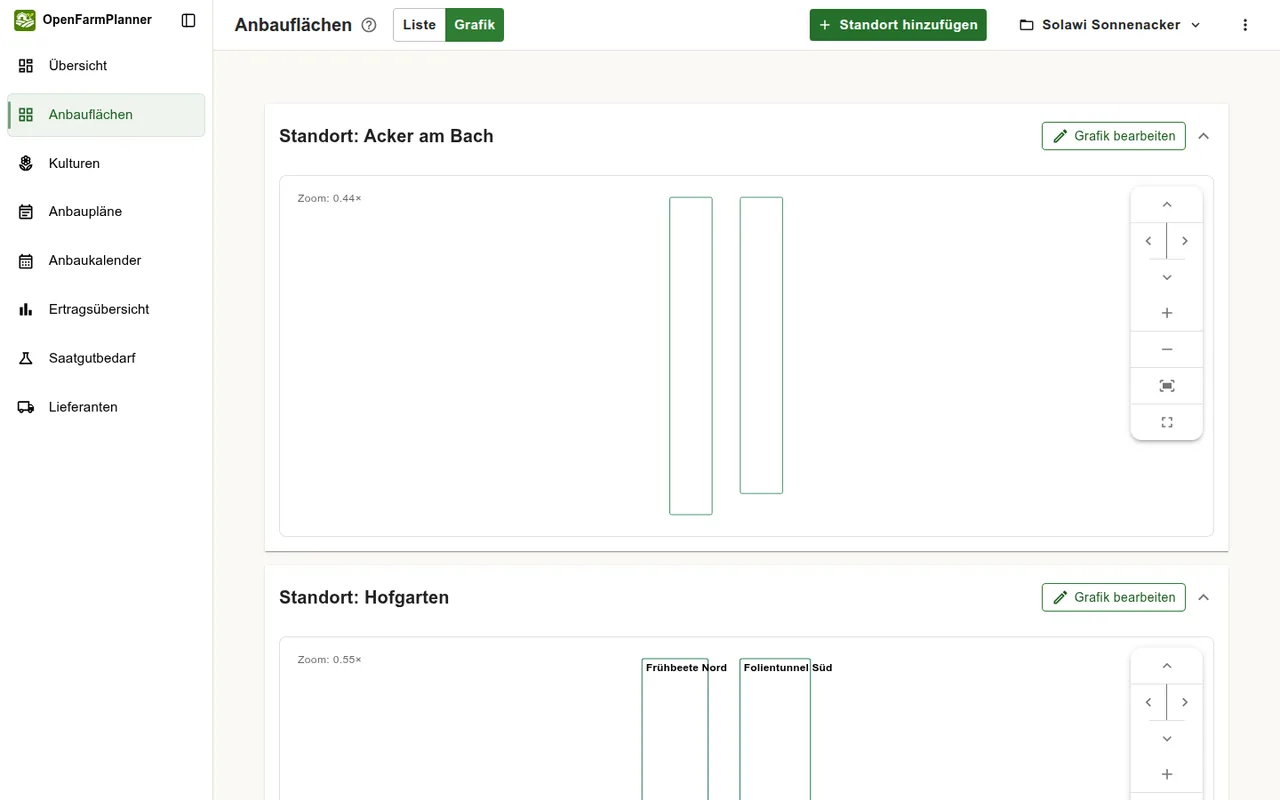
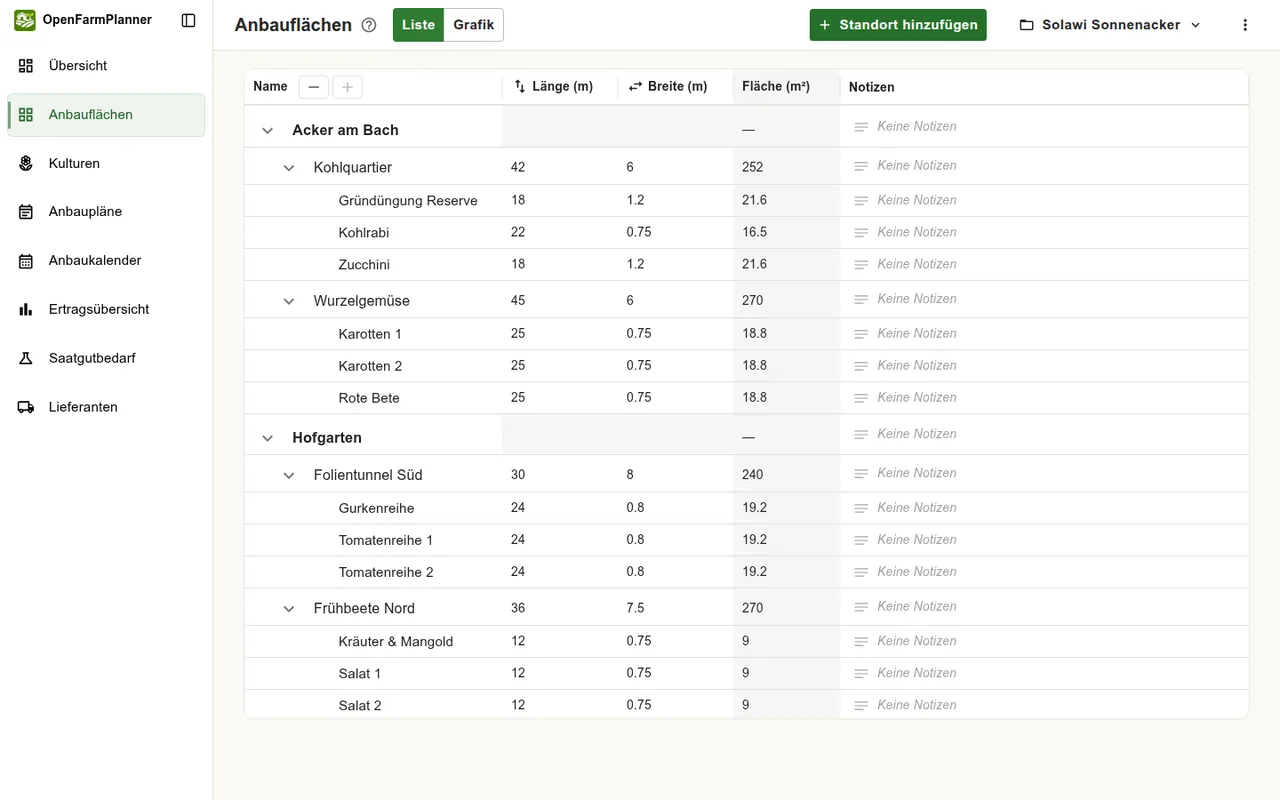
feat: fix button blur panel and highlight direct table editing in product tour
- Wrap the hero button pair in a plain (non-flex) Box for its blur panel
  instead of putting the panel directly on the flex Stack, working around
  a rendering gap where the backdrop-blur pseudo-element wasn't painting
  in some Chrome sessions.
- Rework the "Flächen" tour copy to foreground direct in-table editing
  instead of just describing the area hierarchy.
- Add a new "Anbaupläne" tour tab with its own demo screenshot (captured
  with a planting-date cell open in edit mode) and matching copy, so the
  landing page's core differentiator - editing straight in the table -
  is shown twice, not just described.
- Widen the product-tour container and trim the side-panel column so
  both screenshots render larger without hurting the responsive layout.

diff --git a/frontend/src/pages/public/HomePage.tsx b/frontend/src/pages/public/HomePage.tsx
@@ -21,6 +21,10 @@ const PRODUCT_TOUR_ITEMS = [
     image: '/landing/screenshots/demo-areas.webp',
   },
   {
+    key: 'plantingPlans',
+    image: '/landing/screenshots/demo-planting-plans.webp',
+  },
+  {
     key: 'cultures',
     image: '/landing/screenshots/demo-cultures.webp',
   },
@@ -163,9 +167,7 @@ export default function HomePage() {
                 {t('landing.description')}
               </Typography>
 
-              <Stack
-                direction={{ xs: 'column', sm: 'row' }}
-                spacing={1.2}
+              <Box
                 sx={{
                   width: '100%',
                   maxWidth: 420,
@@ -173,48 +175,50 @@ export default function HomePage() {
                   ...heroTextPanelSx('-34px', '-48px', '32px'),
                 }}
               >
-                <Button
-                  component={RouterLink}
-                  to="/login"
-                  variant="contained"
-                  size="large"
-                  sx={{
-                    flex: 1,
-                    minHeight: 46,
-                    borderRadius: 2.5,
-                    boxShadow: (theme) => theme.shadows[2],
-                    transition: 'transform 160ms ease, box-shadow 160ms ease',
-                    '&:hover': {
-                      transform: 'translateY(-1px)',
-                      boxShadow: (theme) => theme.shadows[5],
-                    },
-                  }}
-                >
-                  {t('landing.actions.openApp')}
-                </Button>
+                <Stack direction={{ xs: 'column', sm: 'row' }} spacing={1.2}>
+                  <Button
+                    component={RouterLink}
+                    to="/login"
+                    variant="contained"
+                    size="large"
+                    sx={{
+                      flex: 1,
+                      minHeight: 46,
+                      borderRadius: 2.5,
+                      boxShadow: (theme) => theme.shadows[2],
+                      transition: 'transform 160ms ease, box-shadow 160ms ease',
+                      '&:hover': {
+                        transform: 'translateY(-1px)',
+                        boxShadow: (theme) => theme.shadows[5],
+                      },
+                    }}
+                  >
+                    {t('landing.actions.openApp')}
+                  </Button>
 
-                <Button
-                  component={RouterLink}
-                  to="/register"
-                  variant="outlined"
-                  size="large"
-                  sx={{
-                    flex: 1,
-                    minHeight: 46,
-                    borderRadius: 2.5,
-                    bgcolor: '#fff',
-                    boxShadow: (theme) => theme.shadows[2],
-                    transition: 'transform 160ms ease, box-shadow 160ms ease, background-color 160ms ease',
-                    '&:hover': {
+                  <Button
+                    component={RouterLink}
+                    to="/register"
+                    variant="outlined"
+                    size="large"
+                    sx={{
+                      flex: 1,
+                      minHeight: 46,
+                      borderRadius: 2.5,
                       bgcolor: '#fff',
-                      transform: 'translateY(-1px)',
-                      boxShadow: (theme) => theme.shadows[5],
-                    },
-                  }}
-                >
-                  {t('landing.actions.register')}
-                </Button>
-              </Stack>
+                      boxShadow: (theme) => theme.shadows[2],
+                      transition: 'transform 160ms ease, box-shadow 160ms ease, background-color 160ms ease',
+                      '&:hover': {
+                        bgcolor: '#fff',
+                        transform: 'translateY(-1px)',
+                        boxShadow: (theme) => theme.shadows[5],
+                      },
+                    }}
+                  >
+                    {t('landing.actions.register')}
+                  </Button>
+                </Stack>
+              </Box>
 
               <Stack spacing={0.8} alignItems="center" textAlign="center" sx={{ pt: { xs: 0.6, md: 0.9 } }}>
                 <Typography
@@ -279,7 +283,7 @@ export default function HomePage() {
           </Container>
         </Box>
 
-        <Container maxWidth="lg" sx={{ width: '100%', py: { xs: 5, md: 7 } }}>
+        <Container maxWidth="xl" sx={{ width: '100%', py: { xs: 5, md: 7 } }}>
           <Stack spacing={{ xs: 5.5, md: 7 }} alignItems="center">
             <Box
               component="section"
@@ -340,7 +344,7 @@ export default function HomePage() {
                   <Box
                     sx={{
                       display: 'grid',
-                      gridTemplateColumns: { xs: '1fr', md: 'minmax(0, 1fr) 320px' },
+                      gridTemplateColumns: { xs: '1fr', md: 'minmax(0, 1fr) 300px' },
                       gap: { xs: 2, md: 4 },
                       alignItems: 'center',
                       pt: { xs: 2, md: 3 },

diff --git a/frontend/e2e/landing-screenshots.spec.ts b/frontend/e2e/landing-screenshots.spec.ts
@@ -15,7 +15,7 @@ const screenshots = [
     path: '/app/fields-beds',
     ready: /Hofgarten|Acker am Bach/i,
     filename: 'demo-areas.webp',
-    fieldsViewMode: 'graphical',
+    fieldsViewMode: 'table',
   },
   {
     key: 'cultures',
@@ -40,6 +40,12 @@ const screenshots = [
     path: '/app/seed-demand',
     ready: /Saatgutbedarf|Karotte/i,
     filename: 'demo-seed-demand.webp',
+  },
+  {
+    key: 'planting-plans',
+    path: '/app/anbauplaene',
+    ready: /Anbaupläne|Anbauplan/i,
+    filename: 'demo-planting-plans.webp',
   },
 ] as const;
 
@@ -113,8 +119,7 @@ test.describe('landing page product screenshots', () => {
       await page.mouse.move(0, 0);
 
       if (item.key === 'areas') {
-        await expect(page.getByRole('button', { name: 'Grafik', pressed: true })).toBeVisible();
-        await expect(page.locator('canvas').first()).toBeVisible();
+        await expect(page.getByRole('button', { name: 'Liste', pressed: true })).toBeVisible();
       }
 
       if (item.key === 'calendar') {
@@ -122,6 +127,15 @@ test.describe('landing page product screenshots', () => {
         await page.locator('.gantt-container-wrapper .rmg-container').evaluate((element) => {
           element.scrollLeft = 0;
         });
+      }
+
+      if (item.key === 'planting-plans') {
+        // Open the first row's planting-date cell in edit mode so the screenshot
+        // makes the grid's inline editing affordance obvious at a glance.
+        const dateCell = page.locator('[role="gridcell"][data-field="planting_date"]').first();
+        await expect(dateCell).toBeVisible();
+        await dateCell.dblclick();
+        await expect(page.locator('.MuiDataGrid-cell--editing input').first()).toBeVisible();
       }
 
       const pngPath = path.join(tempDir, `${item.key}.png`);

diff --git a/frontend/src/__tests__/App.test.tsx b/frontend/src/__tests__/App.test.tsx
@@ -98,13 +98,14 @@ describe('App', () => {
     expect(await screen.findByRole('tab', { name: 'Flächen' })).toHaveAttribute('aria-selected', 'true');
     expect(screen.getAllByRole('tab').map((tab) => tab.textContent)).toEqual([
       'Flächen',
+      'Anbaupläne',
       'Kulturen',
       'Kalender',
       'Erträge',
       'Saatgut',
     ]);
     expect(screen.getByRole('img', {
-      name: 'Hierarchische Ansicht eines Demo-Projekts mit Standorten, Parzellen und Beeten',
+      name: 'Tabellenansicht der Anbauflächen mit editierbaren Zellen für Standorte, Parzellen und Beete',
     })).toHaveAttribute('src', '/landing/screenshots/demo-areas.webp');
 
     await user.click(screen.getByRole('tab', { name: 'Saatgut' }));